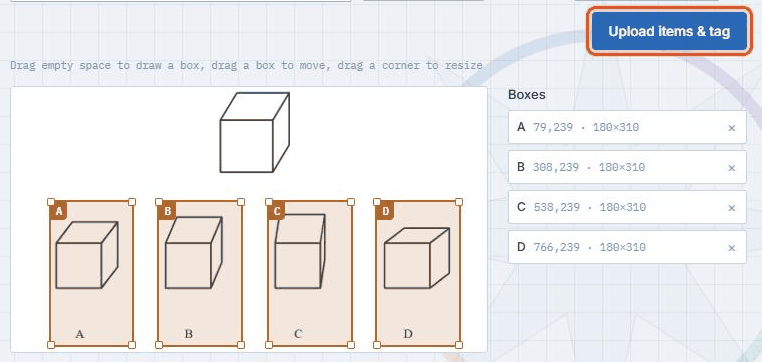
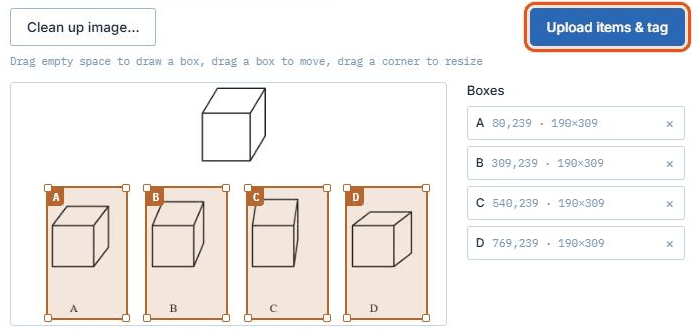
Guide screenshots retaken with the new look; Amma Bromley-Perry on Info; side-panel button width

diff --git a/v2/index.html b/v2/index.html
@@ -394,7 +394,7 @@
   .team-sub li{padding:5px 0;}
   .team-sub li b{font-size:13.5px;}
   .guide-title-row{display:flex; align-items:center; justify-content:space-between; gap:16px; flex-wrap:wrap;}
-  .guide-dock-btn{width:auto; padding:8px 14px; font-size:13px;}
+  .guide-title-row .guide-dock-btn{width:auto; flex:0 0 auto; padding:8px 14px; font-size:13px;}
   .guide-dock{
     position:fixed; top:0; right:0; bottom:0; width:min(420px, 92vw);
     background:var(--bg); border-left:1px solid var(--line-strong);
@@ -2193,17 +2193,17 @@
       <p>To use one test in your study, add it to a battery on its own and generate a link. The orange outlines in the pictures show what to click.</p>
       <ol>
         <li>Click <b>Catalog</b> at the top of the page.
-          <figure class="guide-shot"><img src="guide/nav-catalog.png" alt="The buttons at the top of the page, with Catalog outlined" width="674" height="56" loading="lazy"></figure></li>
+          <figure class="guide-shot"><img src="guide/nav-catalog.png" alt="The buttons at the top of the page, with Catalog outlined" width="752" height="96" loading="lazy"></figure></li>
         <li>Find the test you want and click <b>Configure &amp; add</b> on its card.
-          <figure class="guide-shot narrow"><img src="guide/card-configure.png" alt="A test card in the catalog, with the Configure and add button outlined" width="379" height="604" loading="lazy"></figure></li>
+          <figure class="guide-shot narrow"><img src="guide/card-configure.png" alt="A test card in the catalog, with the Configure and add button outlined" width="348" height="639" loading="lazy"></figure></li>
         <li>Keep the recommended settings, or change them (for example, the number of items or the time per item). Then click <b>Add to battery</b>. This takes you to the <b>Battery</b> page.
-          <figure class="guide-shot"><img src="guide/settings-add.png" alt="The test settings, with the Add to battery button outlined" width="752" height="762" loading="lazy"></figure></li>
+          <figure class="guide-shot"><img src="guide/settings-add.png" alt="The test settings, with the Add to battery button outlined" width="752" height="669" loading="lazy"></figure></li>
         <li>Type a name for the battery in <b>Battery name</b>.
-          <figure class="guide-shot"><img src="guide/battery-name.png" alt="The Battery name box, outlined" width="586" height="100" loading="lazy"></figure></li>
+          <figure class="guide-shot"><img src="guide/battery-name.png" alt="The Battery name box, outlined" width="580" height="106" loading="lazy"></figure></li>
         <li>Click <b>Generate pilot link</b> to try the test yourself first. When you are ready to collect data, click <b>Generate final link</b>.
-          <figure class="guide-shot"><img src="guide/generate-buttons.png" alt="The buttons at the bottom of the Battery page, with Generate pilot link and Generate final link outlined" width="622" height="64" loading="lazy"></figure></li>
+          <figure class="guide-shot"><img src="guide/generate-buttons.png" alt="The buttons at the bottom of the Battery page, with Generate pilot link and Generate final link outlined" width="618" height="62" loading="lazy"></figure></li>
         <li>Click <b>copy</b> next to the link and send it to your participants, for example in Prolific, SONA, Qualtrics or an email.
-          <figure class="guide-shot"><img src="guide/copy-link.png" alt="The participant link, with the copy button outlined" width="544" height="120" loading="lazy"></figure></li>
+          <figure class="guide-shot"><img src="guide/copy-link.png" alt="The participant link, with the copy button outlined" width="544" height="123" loading="lazy"></figure></li>
         <li>Their results appear on your <b>Projects</b> page, where you can download the data.</li>
       </ol>
     </section>
@@ -2215,11 +2215,11 @@
         <li>Add your first test as above: <b>Catalog</b> &rarr; <b>Configure &amp; add</b> &rarr; <b>Add to battery</b>.</li>
         <li>To add the next test, click <b>+ Add another test</b> on the Battery page (or <b>Catalog</b> at the top) and repeat. Each test has its own settings.</li>
         <li>Set the order on the <b>Battery</b> page: drag a test up or down the list, or click the arrows above and below its number. Participants take the tests from top to bottom.
-          <figure class="guide-shot"><img src="guide/order.png" alt="The list of tests on the Battery page, with the order arrows around a test number outlined, and the Add another test button outlined" width="762" height="559" loading="lazy"></figure></li>
+          <figure class="guide-shot"><img src="guide/order.png" alt="The list of tests on the Battery page, with the order arrows around a test number outlined, and the Add another test button outlined" width="720" height="560" loading="lazy"></figure></li>
         <li>To put a test in a random position for each participant, switch on <b>Random position</b> on its card on the Battery page; its number ring turns dashed. Items within each test are shown in random order unless you turn off <b>Randomize item order</b> in the test's settings.
-          <figure class="guide-shot"><img src="guide/randomize-position.png" alt="A test card on the Battery page, with the Random position switch outlined" width="750" height="164" loading="lazy"></figure></li>
+          <figure class="guide-shot"><img src="guide/randomize-position.png" alt="A test card on the Battery page, with the Random position switch outlined" width="687" height="164" loading="lazy"></figure></li>
         <li>If you want, switch on one or more <b>Attention checks</b> on the Battery page. Use <b>&#9881; Settings</b> to change the message shown between tests.
-          <figure class="guide-shot"><img src="guide/attention-settings.png" alt="The Settings button and an attention check switch, outlined" width="762" height="362" loading="lazy"></figure></li>
+          <figure class="guide-shot"><img src="guide/attention-settings.png" alt="The Settings button and an attention check switch, outlined" width="720" height="388" loading="lazy"></figure></li>
         <li>Click <b>Save</b> to keep a draft. Then click <b>Generate pilot link</b> to try it, or <b>Generate final link</b> to collect data, and send the link to participants.</li>
       </ol>
     </section>
@@ -2230,15 +2230,15 @@
       <ol>
         <li>Click <b>Create test</b> at the top of the page.</li>
         <li>Choose how participants answer: <b>Multiple choice</b> (one correct box), <b>Multiple selections</b> (two correct boxes), <b>Same/different</b> (pairs of boxes) or <b>Fill in the blank</b> (a typed answer). Then click <b>Upload image</b> and choose one of your item images. You use it to mark where the answer choices are.
-          <figure class="guide-shot"><img src="guide/creator-type-upload.png" alt="The answer type menu and the Upload image button, outlined" width="730" height="58" loading="lazy"></figure></li>
+          <figure class="guide-shot"><img src="guide/creator-type-upload.png" alt="The answer type menu and the Upload image button, outlined" width="580" height="61" loading="lazy"></figure></li>
         <li>If the image is a scan or a photocopy, click <b>Clean up image&hellip;</b> to straighten, crop and tidy it. The same clean-up is applied to all your item images.
-          <figure class="guide-shot narrow"><img src="guide/creator-cleanup.png" alt="The Clean up image button, outlined" width="374" height="58" loading="lazy"></figure></li>
+          <figure class="guide-shot narrow"><img src="guide/creator-cleanup.png" alt="The Clean up image button, outlined" width="170" height="55" loading="lazy"></figure></li>
         <li>Draw a box over each answer choice: drag across empty space to draw a box, drag a box to move it, and drag a corner to resize it. Boxes are lettered A, B, C&hellip; in the order you draw them. Then click <b>Upload items &amp; tag</b> and choose all of your item images at once.
-          <figure class="guide-shot"><img src="guide/creator-boxes.png" alt="An item with a box drawn over each of the four answer choices, and the Upload items and tag button outlined" width="762" height="362" loading="lazy"></figure></li>
+          <figure class="guide-shot"><img src="guide/creator-boxes.png" alt="An item with a box drawn over each of the four answer choices, and the Upload items and tag button outlined" width="700" height="331" loading="lazy"></figure></li>
         <li>For each item, click the correct box (two boxes for multiple selections, or type the answer for fill in the blank). It turns green. Then click <b>Next item</b>. If an item's choices sit slightly differently, drag its boxes into place. On the last item the button says <b>Finish</b>.
-          <figure class="guide-shot"><img src="guide/creator-tag.png" alt="Tagging an item: box B is marked correct in green, and the Next item button is outlined" width="772" height="380" loading="lazy"></figure></li>
+          <figure class="guide-shot"><img src="guide/creator-tag.png" alt="Tagging an item: box B is marked correct in green, and the Next item button is outlined" width="712" height="372" loading="lazy"></figure></li>
         <li>Give the test a <b>Test name</b> and a short <b>Description</b>, check the list of items, and click <b>Save test</b>.
-          <figure class="guide-shot"><img src="guide/creator-save.png" alt="The review screen, with the Test name box and the Save test button outlined" width="762" height="488" loading="lazy"></figure></li>
+          <figure class="guide-shot"><img src="guide/creator-save.png" alt="The review screen, with the Test name box and the Save test button outlined" width="702" height="500" loading="lazy"></figure></li>
         <li>Your test now appears in the <b>Catalog</b> with an <b>Only you</b> badge. Add it to a battery like any other test. Only you can see it unless an administrator adds it to the shared catalog.</li>
       </ol>
     </section>
@@ -2267,7 +2267,7 @@
       </div>
       <div class="team-card">
         <div class="team-head"><span class="team-badge" style="background:#4E2A84; color:#FFFFFF;">NU</span><h2>Northwestern University</h2></div>
-        <ul class="team-list"><li class="team-pi"><b>David Uttal</b><span>Kenneth F. Burgess Professor of Psychology and Education</span><ul class="team-sub"><li><b>Qingzhou Shi</b><span>Postdoctoral Researcher</span></li><li><b>Danielle Rothschild Doyle</b><span>PhD Student</span></li><li><b>Lauren Smith</b><span>PhD Student</span></li></ul></li></ul>
+        <ul class="team-list"><li class="team-pi"><b>David Uttal</b><span>Kenneth F. Burgess Professor of Psychology and Education</span><ul class="team-sub"><li><b>Qingzhou Shi</b><span>Postdoctoral Researcher</span></li><li><b>Danielle Rothschild Doyle</b><span>PhD Student</span></li><li><b>Lauren Smith</b><span>PhD Student</span></li><li><b>Amma Bromley-Perry</b><span>Research Coordinator</span></li></ul></li></ul>
       </div>
       <div class="team-card">
         <div class="team-head"><span class="team-badge" style="background:#9D2235; color:#FFFFFF;">TU</span><h2>Temple University</h2></div>
